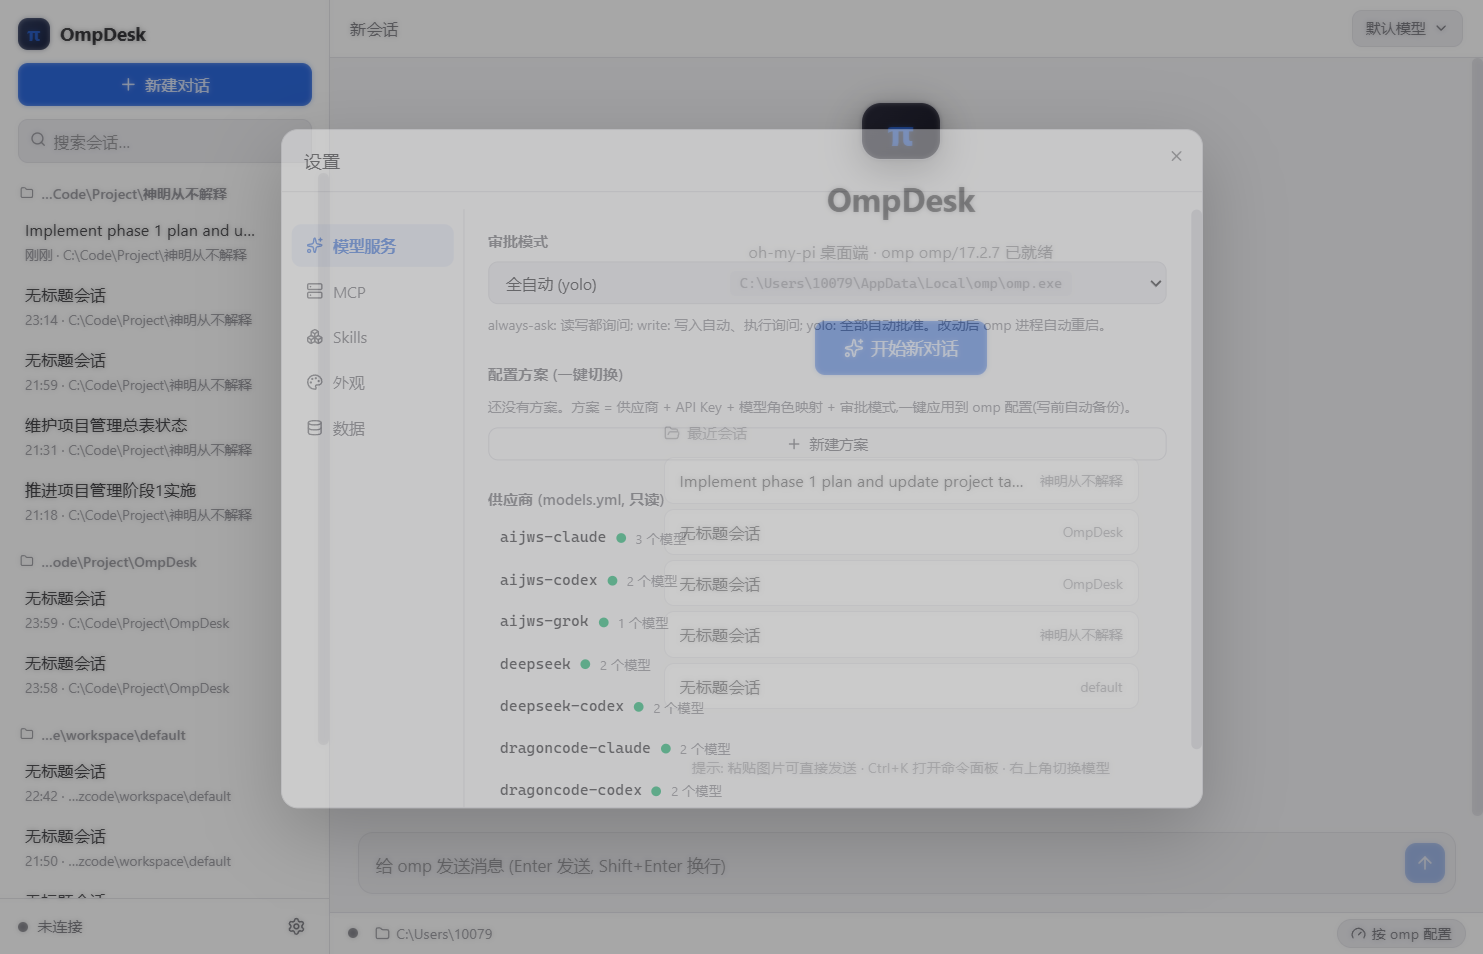
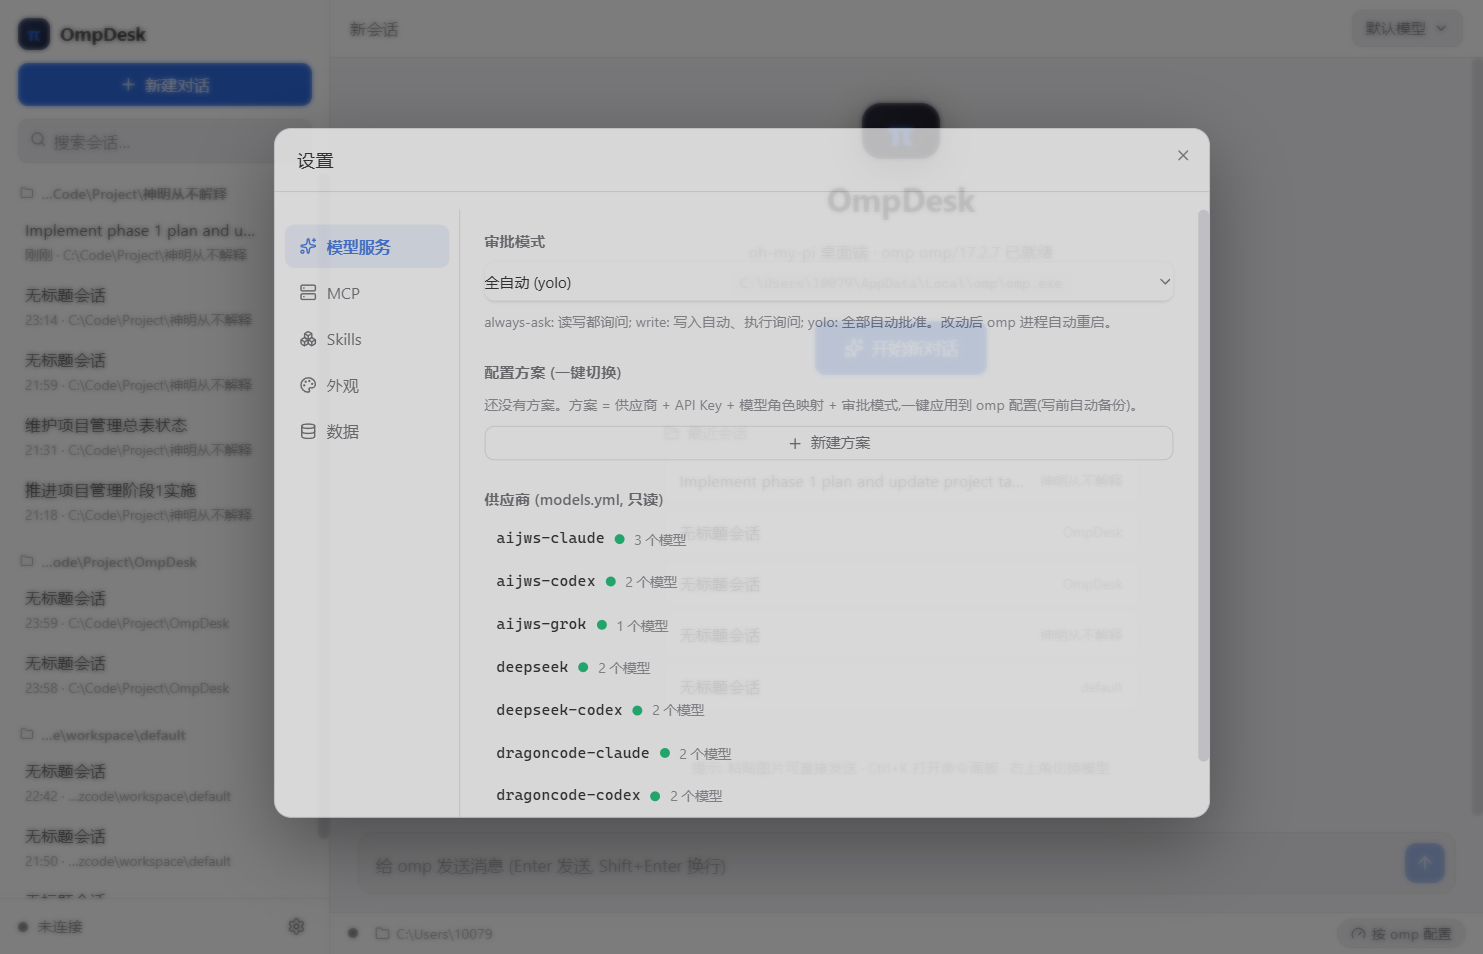
feat(ui): 设置控件换 shadcn Select(FieldSelect 包装)/Switch; e2e-settings 全绿

diff --git a/src/components/SettingsModal.tsx b/src/components/SettingsModal.tsx
@@ -13,6 +13,8 @@ import {
 } from 'lucide-react'
 import { useStore } from '../store'
 import { Dialog, DialogContent } from './ui/dialog'
+import { FieldSelect } from './ui/field-select'
+import { Switch } from './ui/switch'
 import type { ApprovalMode, McpServerDraft, RoleModels } from '../shared/types'
 
 // ---------- 模型服务: 方案(CC Switch 式) ----------
@@ -40,12 +42,12 @@ function ProfileForm({ onClose }: { onClose: () => void }) {
       </div>
       <div className="form-row">
         <label>供应商</label>
-        <select value={provider} onChange={(e) => setProvider(e.target.value)}>
-          <option value="">选择供应商…</option>
-          {providers.map((p) => (
-            <option key={p.name} value={p.name}>{p.name}</option>
-          ))}
-        </select>
+        <FieldSelect
+          value={provider}
+          onChange={setProvider}
+          placeholder="选择供应商…"
+          options={providers.map((p) => ({ value: p.name, label: p.name }))}
+        />
       </div>
       <div className="form-row">
         <label>API Key (safeStorage 加密存储)</label>
@@ -68,11 +70,15 @@ function ProfileForm({ onClose }: { onClose: () => void }) {
       </div>
       <div className="form-row">
         <label>审批模式</label>
-        <select value={approval} onChange={(e) => setApproval(e.target.value as ApprovalMode)}>
-          <option value="always-ask">始终询问</option>
-          <option value="write">写入自动 (write)</option>
-          <option value="yolo">全自动 (yolo)</option>
-        </select>
+        <FieldSelect
+          value={approval}
+          onChange={(v) => setApproval(v as ApprovalMode)}
+          options={[
+            { value: 'always-ask', label: '始终询问' },
+            { value: 'write', label: '写入自动 (write)' },
+            { value: 'yolo', label: '全自动 (yolo)' }
+          ]}
+        />
       </div>
       <div className="form-actions">
         <button className="btn ghost" onClick={onClose}>取消</button>
@@ -120,11 +126,15 @@ function McpForm({ editing, onClose }: { editing: { name: string; server: McpSer
       <div className="form-row"><label>服务器名称</label><input value={name} onChange={(e) => setName(e.target.value)} placeholder="如: github" /></div>
       <div className="form-row">
         <label>传输类型</label>
-        <select value={type} onChange={(e) => setType(e.target.value as McpServerDraft['type'])}>
-          <option value="stdio">stdio (本地命令)</option>
-          <option value="http">http</option>
-          <option value="sse">sse</option>
-        </select>
+        <FieldSelect
+          value={type}
+          onChange={(v) => setType(v as McpServerDraft['type'])}
+          options={[
+            { value: 'stdio', label: 'stdio (本地命令)' },
+            { value: 'http', label: 'http' },
+            { value: 'sse', label: 'sse' }
+          ]}
+        />
       </div>
       {type === 'stdio' ? (
         <>
@@ -232,17 +242,19 @@ export function SettingsModal() {
             {tab === 'models' && (
               <div className="settings-section">
                 <div className="section-title">审批模式</div>
-                <select
-                  value={settings.approvalMode || profileApproval}
-                  onChange={(e) => {
-                    void setSettings({ approvalMode: e.target.value as ApprovalMode }).then(() => addNotice('info', '审批模式已更新,会话进程已重启'))
+                <FieldSelect
+                  value={settings.approvalMode || profileApproval || ''}
+                  onChange={(v) => {
+                    void setSettings({ approvalMode: v as ApprovalMode }).then(() => addNotice('info', '审批模式已更新,会话进程已重启'))
                     flashSaved()
                   }}
-                >
-                  <option value="always-ask">始终询问 (推荐)</option>
-                  <option value="write">写入自动 (write)</option>
-                  <option value="yolo">全自动 (yolo)</option>
-                </select>
+                  placeholder="按 omp 配置"
+                  options={[
+                    { value: 'always-ask', label: '始终询问 (推荐)' },
+                    { value: 'write', label: '写入自动 (write)' },
+                    { value: 'yolo', label: '全自动 (yolo)' }
+                  ]}
+                />
                 <div className="section-hint">always-ask: 读写都询问; write: 写入自动、执行询问; yolo: 全部自动批准。改动后 omp 进程自动重启。</div>
 
                 <div className="section-title">配置方案 (一键切换)</div>
@@ -299,12 +311,11 @@ export function SettingsModal() {
                         {m.type}{m.command ? ` · ${m.command}` : ''}{m.url ? ` · ${m.url}` : ''} · 来源: {m.source}
                       </span>
                     </div>
-                    <button
-                      className={`switch ${m.enabled ? 'on' : ''}`}
-                      onClick={() => void setMcpEnabled(m.name, !m.enabled).then(() => refreshMcp())}
-                    >
-                      <span className="switch-knob" />
-                    </button>
+                    <Switch
+                      checked={m.enabled}
+                      onCheckedChange={(v) => void setMcpEnabled(m.name, v).then(() => refreshMcp())}
+                      aria-label={`${m.name} 启用状态`}
+                    />
                     <button className="icon-btn" title="编辑" onClick={() => { setEditingMcp({ name: m.name, server: { type: m.type as McpServerDraft['type'], command: m.command, args: m.args, url: m.url, enabled: m.enabled } }); setShowMcpForm(true) }}>
                       <ChevronRight size={13} />
                     </button>
@@ -335,9 +346,11 @@ export function SettingsModal() {
                       <span className="list-row-title">{s.name} <span className="tag">{s.root}</span></span>
                       <span className="list-row-sub">{s.description || '(无描述)'}{s.globs?.length ? ` · globs: ${s.globs.join(', ')}` : ''}</span>
                     </div>
-                    <button className={`switch ${s.enabled ? 'on' : ''}`} onClick={() => void toggleSkill(s.name, !s.enabled).then(() => refreshSkills())}>
-                      <span className="switch-knob" />
-                    </button>
+                    <Switch
+                      checked={s.enabled}
+                      onCheckedChange={(v) => void toggleSkill(s.name, v).then(() => refreshSkills())}
+                      aria-label={`${s.name} 启用状态`}
+                    />
                   </div>
                 ))}
                 {skills.length === 0 && <div className="section-hint">未发现 skills。</div>}
@@ -347,14 +360,15 @@ export function SettingsModal() {
             {tab === 'appearance' && (
               <div className="settings-section">
                 <div className="section-title">主题</div>
-                <select
+                <FieldSelect
                   value={settings.theme}
-                  onChange={(e) => { void setSettings({ theme: e.target.value as typeof settings.theme }); flashSaved() }}
-                >
-                  <option value="system">跟随系统</option>
-                  <option value="dark">深色</option>
-                  <option value="light">浅色</option>
-                </select>
+                  onChange={(v) => { void setSettings({ theme: v as typeof settings.theme }); flashSaved() }}
+                  options={[
+                    { value: 'system', label: '跟随系统' },
+                    { value: 'dark', label: '深色' },
+                    { value: 'light', label: '浅色' }
+                  ]}
+                />
                 <div className="section-title">字体大小</div>
                 <input
                   type="range"

diff --git a/src/components/ui/field-select.tsx b/src/components/ui/field-select.tsx
@@ -1,0 +1,34 @@
+import { Select, SelectContent, SelectItem, SelectTrigger, SelectValue } from './select'
+
+export interface SelectOption {
+  value: string
+  label: string
+}
+
+/** 原生 select 风格 API 的 shadcn Select 包装(用于设置表单) */
+export function FieldSelect({
+  value,
+  onChange,
+  options,
+  placeholder = '请选择…'
+}: {
+  value: string
+  onChange: (v: string) => void
+  options: SelectOption[]
+  placeholder?: string
+}) {
+  return (
+    <Select value={value || undefined} onValueChange={onChange}>
+      <SelectTrigger className="h-9 w-full">
+        <SelectValue placeholder={placeholder} />
+      </SelectTrigger>
+      <SelectContent>
+        {options.map((o) => (
+          <SelectItem key={o.value} value={o.value}>
+            {o.label}
+          </SelectItem>
+        ))}
+      </SelectContent>
+    </Select>
+  )
+}
